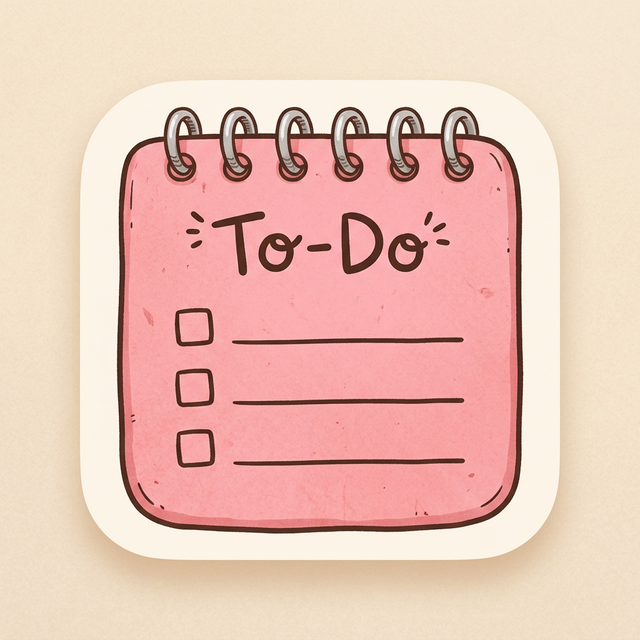
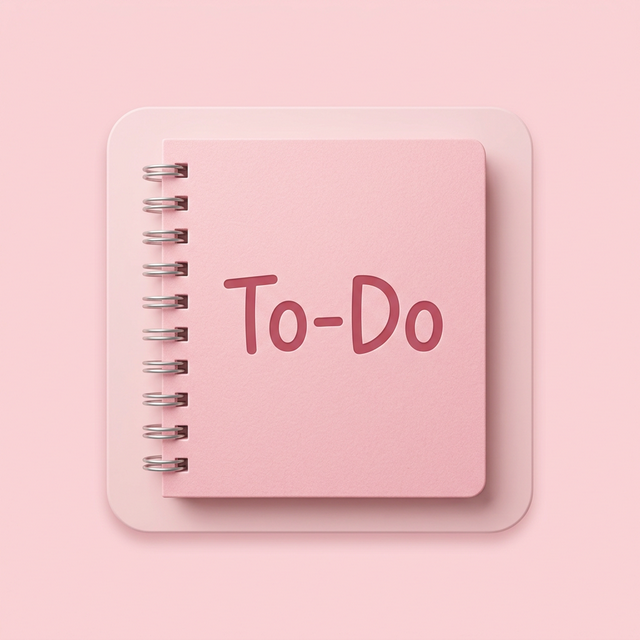
Cambio icono

diff --git a/src/components/TaskList.jsx b/src/components/TaskList.jsx
@@ -162,43 +162,45 @@ export default function TaskList({ session, selectedCategoryId, showPending, cat
             />
 
             {/* Filtros y Búsqueda */}
-            <div className="bg-[#e0f7fa] rounded-[2rem] p-4 mb-10 flex flex-col md:flex-row items-center justify-between gap-6 border border-white/40 shadow-xl shadow-[#e0f7fa]/20">
-                <div className="flex space-x-2 w-full md:w-auto p-1 bg-[#b2dfdb]/20 rounded-2xl">
-                    {[
-                        { id: 'all', label: 'Todas' },
-                        { id: 'active', label: 'Activas' },
-                        { id: 'completed', label: 'Completadas' }
-                    ].map((f) => (
-                        <button
-                            key={f.id}
-                            onClick={() => setFilter(f.id)}
-                            className={`flex-1 md:flex-none px-8 py-3.5 rounded-xl text-sm font-black transition-all duration-300 ${filter === f.id
-                                ? 'bg-[#fff9c4] text-gray-800 shadow-lg scale-[1.02]'
-                                : 'text-gray-500 hover:text-gray-700'
-                                }`}
-                        >
-                            {f.id === 'active' ? (
-                                <div className="flex items-center">
-                                    {f.label}
-                                    <span className="ml-2 bg-[#e0f2f1] text-gray-600 px-2 py-0.5 rounded-lg text-xs font-bold">
-                                        {activeCount}
-                                    </span>
-                                </div>
-                            ) : f.label}
-                        </button>
-                    ))}
+            <div className="bg-[#e0f7fa] rounded-[1.5rem] sm:rounded-[2rem] p-3 sm:p-4 mb-8 sm:mb-10 flex flex-col items-stretch gap-4 sm:gap-6 border border-white/40 shadow-xl shadow-[#e0f7fa]/20">
+                <div className="flex overflow-x-auto pb-2 sm:pb-0 hide-scrollbar -mx-1 px-1">
+                    <div className="flex space-x-2 bg-[#b2dfdb]/20 p-1 rounded-xl sm:rounded-2xl min-w-max">
+                        {[
+                            { id: 'all', label: 'Todas' },
+                            { id: 'active', label: 'Activas' },
+                            { id: 'completed', label: 'Completas' }
+                        ].map((f) => (
+                            <button
+                                key={f.id}
+                                onClick={() => setFilter(f.id)}
+                                className={`px-4 sm:px-8 py-2.5 sm:py-3.5 rounded-lg sm:rounded-xl text-[10px] sm:text-sm font-black transition-all duration-300 whitespace-nowrap ${filter === f.id
+                                    ? 'bg-[#fff9c4] text-gray-800 shadow-md sm:shadow-lg scale-[1.02]'
+                                    : 'text-gray-500 hover:text-gray-700'
+                                    }`}
+                            >
+                                {f.id === 'active' ? (
+                                    <div className="flex items-center">
+                                        {f.label}
+                                        <span className="ml-1.5 sm:ml-2 bg-[#e0f2f1] text-gray-600 px-1.5 sm:px-2 py-0.5 rounded-md sm:rounded-lg text-[9px] sm:text-xs font-bold">
+                                            {activeCount}
+                                        </span>
+                                    </div>
+                                ) : f.label}
+                            </button>
+                        ))}
+                    </div>
                 </div>
 
-                <div className="relative w-full md:w-96">
-                    <div className="absolute inset-y-0 left-0 pl-5 flex items-center pointer-events-none">
-                        <Search className="h-5 w-5 text-gray-400" />
+                <div className="relative w-full">
+                    <div className="absolute inset-y-0 left-0 pl-4 sm:pl-5 flex items-center pointer-events-none">
+                        <Search className="h-4 w-4 sm:h-5 sm:w-5 text-gray-400" />
                     </div>
                     <input
                         type="text"
                         placeholder="Buscar tareas..."
                         value={searchQuery}
                         onChange={(e) => setSearchQuery(e.target.value)}
-                        className="w-full pl-14 pr-6 py-4 bg-[#b2dfdb]/30 border-none rounded-2xl text-sm text-gray-700 placeholder:text-gray-400 focus:outline-none focus:ring-4 focus:ring-[#b2dfdb]/40 transition-all font-bold"
+                        className="w-full pl-11 sm:pl-14 pr-4 sm:pr-6 py-3 sm:py-4 bg-[#b2dfdb]/30 border-none rounded-xl sm:rounded-2xl text-[11px] sm:text-sm text-gray-700 placeholder:text-gray-400 focus:outline-none focus:ring-4 focus:ring-[#b2dfdb]/40 transition-all font-bold"
                     />
                 </div>
             </div>

diff --git a/public/sw.js b/public/sw.js
@@ -1,67 +1,16 @@
-const CACHE_NAME = 'cloud-task-v4';
-const ASSETS = [
-    '/',
-    '/index.html',
-    '/manifest.webmanifest',
-    '/icon-192x192.png',
-    '/icon-512x512.png',
-    '/vite.svg'
-];
+// Minimal Service Worker to allow installation without caching files.
+// This ensures the application always loads the latest version from the server.
 
 self.addEventListener('install', (event) => {
-    event.waitUntil(
-        caches.open(CACHE_NAME).then((cache) => {
-            return cache.addAll(ASSETS);
-        })
-    );
     self.skipWaiting();
 });
 
 self.addEventListener('activate', (event) => {
-    event.waitUntil(
-        caches.keys().then((keys) => {
-            return Promise.all(
-                keys.filter((key) => key !== CACHE_NAME).map((key) => caches.delete(key))
-            );
-        })
-    );
-    self.clients.claim();
+    event.waitUntil(self.clients.claim());
 });
 
-self.addEventListener('message', (event) => {
-    if (event.data && event.data.type === 'SKIP_WAITING') {
-        self.skipWaiting();
-    }
-});
-
+// Pass-through fetch handler (required for PWA installation in most browsers)
 self.addEventListener('fetch', (event) => {
-    if (event.request.method !== 'GET') return;
-
-    const url = new URL(event.request.url);
-
-    // Network-First strategy for main pages to ensure updates are seen
-    if (event.request.mode === 'navigate' || url.pathname === '/' || url.pathname === '/index.html') {
-        event.respondWith(
-            fetch(event.request)
-                .then((response) => {
-                    const copy = response.clone();
-                    caches.open(CACHE_NAME).then((cache) => cache.put(event.request, copy));
-                    return response;
-                })
-                .catch(() => caches.match('/index.html') || caches.match('/'))
-        );
-        return;
-    }
-
-    // Cache-First for assets
-    event.respondWith(
-        caches.match(event.request).then((cachedResponse) => {
-            if (cachedResponse) return cachedResponse;
-            return fetch(event.request).then((response) => {
-                const copy = response.clone();
-                caches.open(CACHE_NAME).then((cache) => cache.put(event.request, copy));
-                return response;
-            });
-        })
-    );
+    // Just fetch directly from the network
+    return;
 });

diff --git a/src/main.jsx b/src/main.jsx
@@ -3,57 +3,22 @@ import { createRoot } from 'react-dom/client'
 import './index.css'
 import App from './App.jsx'
 
-console.log('App starting...');
-
 const container = document.getElementById('root');
 
-if (!container) {
-  console.error('Root container not found');
-} else {
+if (container) {
   const root = createRoot(container);
   root.render(
     <StrictMode>
       <App />
     </StrictMode>
   );
-  console.log('App rendered');
 }
 
-// Service Worker Registration with Auto-Update
+// Simple SW registration for installation eligibility
 if ('serviceWorker' in navigator) {
   window.addEventListener('load', () => {
-    navigator.serviceWorker.register('/sw.js')
-      .then(reg => {
-        console.log('SW Registered');
-
-        // Detect updates
-        reg.onupdatefound = () => {
-          const newWorker = reg.installing;
-          if (newWorker) {
-            newWorker.onstatechange = () => {
-              if (newWorker.state === 'installed' && navigator.serviceWorker.controller) {
-                console.log('New content available, refreshing...');
-                newWorker.postMessage({ type: 'SKIP_WAITING' });
-                window.location.reload();
-              }
-            };
-          }
-        };
-
-        // Periodic check for updates
-        setInterval(() => {
-          reg.update();
-        }, 60 * 1000); // Every minute
-      })
-      .catch(err => console.error('SW registration failed:', err));
-
-    // Refresh all tabs when the new service worker takes over
-    let refreshing = false;
-    navigator.serviceWorker.addEventListener('controllerchange', () => {
-      if (!refreshing) {
-        window.location.reload();
-        refreshing = true;
-      }
+    navigator.serviceWorker.register('/sw.js').catch(err => {
+      console.error('SW registration failed', err);
     });
   });
 }

diff --git a/src/index.css b/src/index.css
@@ -27,3 +27,12 @@ body {
 #root {
   width: 100%;
 }
+
+.hide-scrollbar::-webkit-scrollbar {
+  display: none;
+}
+
+.hide-scrollbar {
+  -ms-overflow-style: none;
+  scrollbar-width: none;
+}
